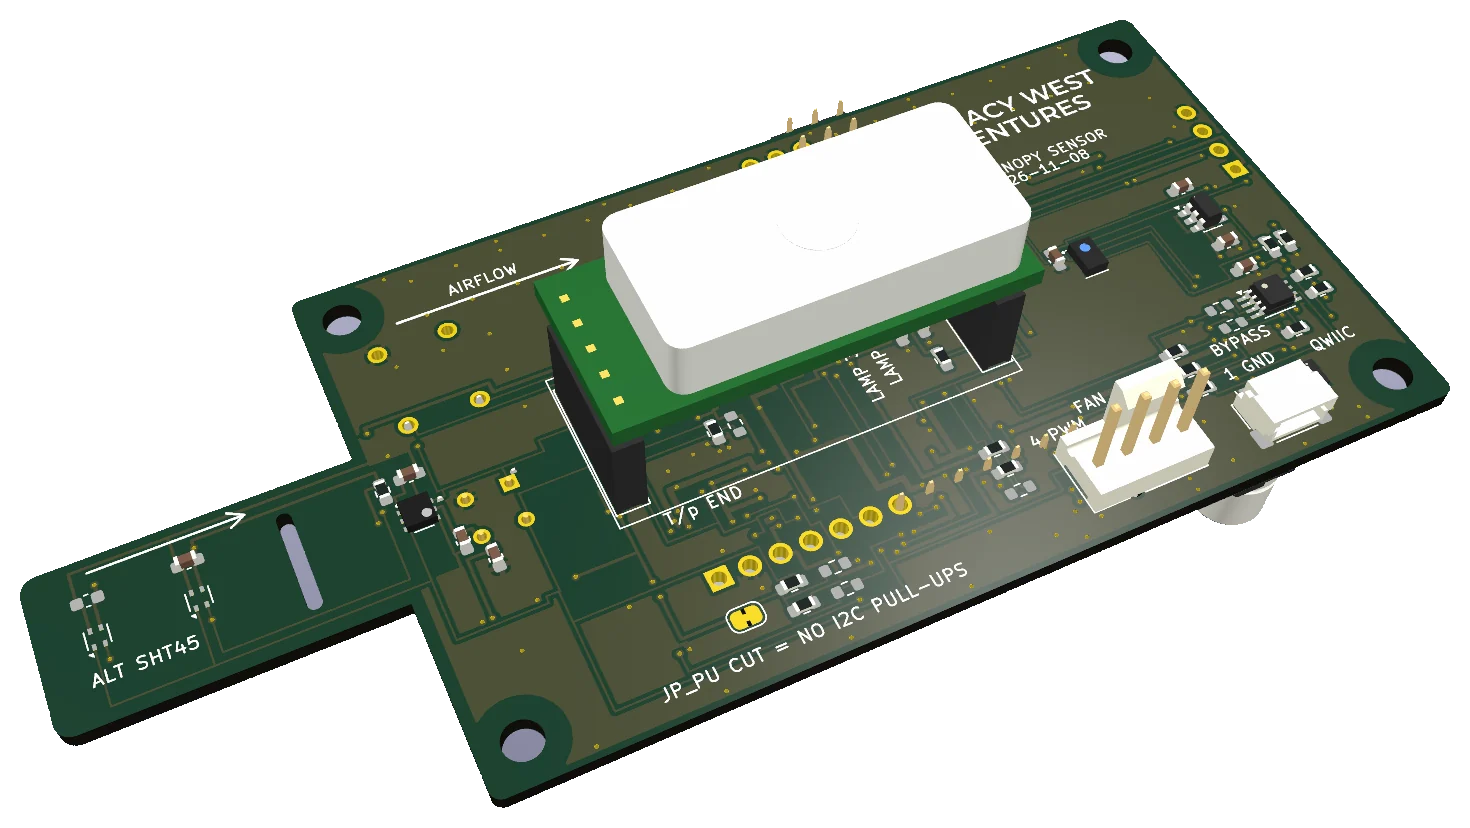
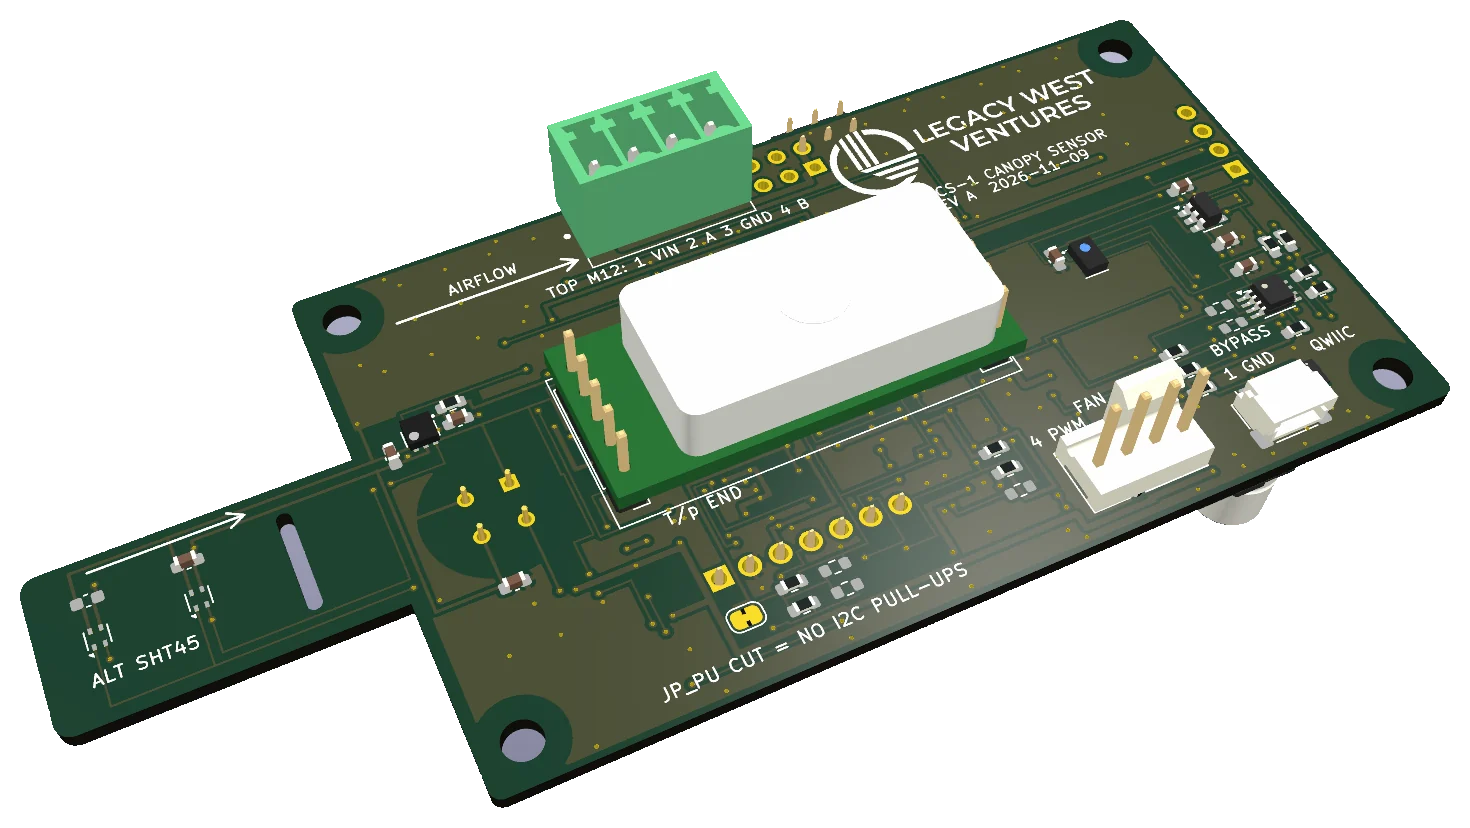
CS-1 overview: rev 4 - hangs from a top M12, wall keyholes, software bus settings, every part fitted by JLC
New renders (case with the connector turret, hanging and wall views, board rev 4 with the XIAO
sockets on their pads); switch, lugs, sockets and hand-fit text replaced; status and pre-order
lists updated.

diff --git a/docs/canopy-sensor/cs-1.html b/docs/canopy-sensor/cs-1.html
@@ -147,10 +147,10 @@ footer .logo { height: 28px }
   <div class="hero">
     <span class="kicker">LWV GCU sensor</span>
     <h1>LWV-CS-1 GCU Canopy Sensor</h1>
-    <p class="lead">The CS-1 hangs just above the plants and measures what they live in: CO<sub>2</sub>, air temperature and humidity, leaf temperature, light and air quality. A small fan draws room air through a shaded duct past the sensors, so the readings describe the room, not a box warmed by the grow lights. It joins the pod's four-wire M12 cable next to the IR blasters, and it is built to be calibrated, checked and updated remotely, without a site visit.</p>
+    <p class="lead">The CS-1 hangs just above the plants and measures what they live in: CO<sub>2</sub>, air temperature and humidity, leaf temperature, light and air quality. A small fan draws room air through a shaded duct past the sensors, so the readings describe the room, not a box warmed by the grow lights. It hangs from the pod's four-wire M12 cable, the same one that runs to the IR blasters, or screws to a wall, and it is built to be set up, calibrated, checked and updated remotely, without a site visit.</p>
     <figure class="hero-fig">
-      <img src="img/cs1-hero.webp" width="1325" height="905" alt="Render of the LWV-CS-1 case: a long rectangular box with a flat lid carrying the LWV-CS-1 name, a round light window with a raised bezel, hanging lugs at both ends, and a grille over the exhaust fan at one end">
-      <figcaption>Rev A, rendered from the production case model (printed in white ASA). Air enters through louvres at the far end and leaves through the fan grille; the round window on the lid is the light sensor's diffuser.</figcaption>
+      <img src="img/cs1-hero.webp" width="1325" height="905" alt="Render of the LWV-CS-1 case: a long rectangular box with a flat lid carrying the LWV-CS-1 name, a round light window with a raised bezel, the M12 connector it hangs from in a short turret on the lid, keyholes in the side wall, and a grille over the exhaust fan at one end">
+      <figcaption>Rev A, rendered from the production case model (printed in white ASA). Air enters through louvres at the far end and leaves through the fan grille; the round window on the lid is the light sensor's diffuser, and the connector beside it is the one it hangs from.</figcaption>
     </figure>
   </div>
 
@@ -168,7 +168,7 @@ footer .logo { height: 28px }
     <header><span class="kicker">Where it sits</span><h2>At the canopy, on the same cable as the IR blasters</h2></header>
     <div class="cols">
       <p class="prose">The IR blasters have to sit where they can see the mini-splits, up high and in the cold air those units blow out. That is the wrong place to measure a room. The CS-1 hangs 20–40 cm above the canopy, away from the mini-split discharge, where the plants actually are.</p>
-      <p class="prose">It plugs into the same daisy-chained M12 cable that already carries 24 V and RS-485 to the blasters: IN on one side, OUT on the other. The GCU reads it once a minute, as it does today's sensor, and passes everything to GCU Cloud. A switch on the board sets its address, so it can replace today's sensor at the same address or run beside it at the next one.</p>
+      <p class="prose">It hangs from a drop of the same daisy-chained M12 cable that already carries 24 V and RS-485 to the blasters, plugged into a connector on its top; a second connector on the side carries the bus on. The GCU reads it once a minute, as it does today's sensor, and passes everything to GCU Cloud. Its address and every other bus setting are set in software, so it can replace today's sensor at the same address or run beside it at the next one.</p>
     </div>
     <figure class="diagram">
       <div class="scroll">
@@ -272,7 +272,7 @@ footer .logo { height: 28px }
         <text class="t-m" x="272" y="148" text-anchor="middle">SGP41</text>
         <rect class="box-acc" x="330" y="118" width="230" height="58" rx="6"/>
         <text class="t-b" x="445" y="144" text-anchor="middle">EE895 CO₂</text>
-        <text class="t-s" x="445" y="164" text-anchor="middle">on a socket, plug-in</text>
+        <text class="t-s" x="445" y="164" text-anchor="middle">soldered on header pins</text>
         <rect class="box" x="640" y="44" width="40" height="132"/>
         <rect x="634" y="34" width="52" height="8" rx="2" fill="var(--surface)" stroke="var(--cyan)" stroke-width="2"/>
         <text class="t-s" x="700" y="30">diffuser</text>
@@ -303,25 +303,25 @@ footer .logo { height: 28px }
       </div>
       <figcaption>Every heat source sits downstream of every air sensor. About 4 m³ of air an hour passes through; the half watt of electronics warms the exhaust by roughly 0.4 °C, after the sensors.</figcaption>
     </figure>
-    <figure class="map"><img src="img/cs1-section.webp" width="1460" height="714" alt="Cut-away render of the CS-1 through its length: louvres and screen at the left, the circuit board as a shelf in the middle, the CO2 module standing on its socket in the upper duct, the black light tube under the diffuser, the cone-shaped leaf thermometer sleeve opening through the floor, the processor below the board, and the fan at the right"><figcaption>Cut-away of the production model along the airflow: louvres, screen, the board as a shelf, the CO<sub>2</sub> module in the upper duct, the black light tube under the diffuser, the leaf thermometer's sleeve through the floor, and the fan.</figcaption></figure>
+    <figure class="map"><img src="img/cs1-section.webp" width="1460" height="714" alt="Cut-away render of the CS-1 through its length: louvres and screen at the left, the circuit board as a shelf in the middle, the CO2 module on its header pins in the upper duct, the black light tube under the diffuser, the cone-shaped leaf thermometer sleeve opening through the floor, the processor below the board, and the fan at the right"><figcaption>Cut-away of the production model along the airflow: louvres, screen, the board as a shelf, the CO<sub>2</sub> module in the upper duct, the black light tube under the diffuser, the leaf thermometer's sleeve through the floor, and the fan.</figcaption></figure>
   </section>
 
   <!-- 4 -->
   <section id="board">
     <header><span class="kicker">The board</span><h2>Built to be changed without a new board</h2></header>
-    <p class="prose">Rev A is the prototype, so everything we expect to learn about in the test pods can be changed with a part swap, a jumper or a reprinted case part instead of a new circuit board.</p>
-    <figure class="map"><img src="img/cs1-board-iso.webp" width="1470" height="828" alt="3D render of the CS-1 circuit board at an angle: the white CO2 module standing on its two black sockets in the middle, the narrow sensor tongue at the front left, the fan and Qwiic connectors at the right edge"><figcaption>Rev A as routed. The CO<sub>2</sub> module stands on its keyed sockets in the middle; the humidity sensor sits on the slotted tongue at the front, upstream of everything else.</figcaption></figure>
+    <p class="prose">Rev A is the prototype, so everything we expect to learn about in the test pods can be changed with a line in JLC's parts list or a reprinted case part instead of a new circuit board. Every part is fitted by JLC; nothing is soldered by hand.</p>
+    <figure class="map"><img src="img/cs1-board-iso.webp" width="1470" height="828" alt="3D render of the CS-1 circuit board at an angle: the white CO2 module standing on its header pins in the middle, the narrow sensor tongue at the front left, the fan and Qwiic connectors at the right edge"><figcaption>Rev A as routed. The CO<sub>2</sub> module stands on its header pins in the middle; the humidity sensor sits on the slotted tongue at the front, upstream of everything else.</figcaption></figure>
     <div class="pair">
-      <figure class="map"><img src="img/cs1-board-top.webp" width="1259" height="599" alt="3D render of the CS-1 circuit board from the top: a long green board with a narrow tongue at one end carrying the humidity sensor, the CO2 module socket, the light sensor, the fan and Qwiic connectors and the LWV logo"><figcaption>Top: the duct side. The humidity sensor sits on the slotted tongue at the left; the CO<sub>2</sub> module plugs into the keyed socket.</figcaption></figure>
-      <figure class="map"><img src="img/cs1-board-bottom.webp" width="1259" height="599" alt="3D render of the CS-1 circuit board from the bottom: the round leaf thermometer, the processor module, the power supply, the labelled test points and the cable socket"><figcaption>Bottom: the leaf thermometer, the plug-in processor, the power supply and the socket the M12 connector card plugs into.</figcaption></figure>
+      <figure class="map"><img src="img/cs1-board-top.webp" width="1259" height="599" alt="3D render of the CS-1 circuit board from the top: a long green board with a narrow tongue at one end carrying the humidity sensor, the CO2 module, the light sensor, the fan and Qwiic connectors and the LWV logo"><figcaption>Top: the duct side. The humidity sensor sits on the slotted tongue at the left; the CO<sub>2</sub> module is soldered on header pins at JLC; the terminal at the back edge takes the top connector's wires.</figcaption></figure>
+      <figure class="map"><img src="img/cs1-board-bottom.webp" width="1259" height="599" alt="3D render of the CS-1 circuit board from the bottom: the round leaf thermometer, the processor module, the power supply, the labelled test points and the cable socket; the processor plugs in with its parts facing away from the board"><figcaption>Bottom: the leaf thermometer, the plug-in processor (parts facing out, as on the GCU V5), the power supply and the socket the M12 connector card plugs into.</figcaption></figure>
     </div>
     <ul class="plain prose">
-      <li><b>The CO<sub>2</sub> module plugs in.</b> It sits on a keyed socket that refuses all three wrong ways round, so a module can be swapped in a minute.</li>
+      <li><b>Built by JLC, nothing soldered by hand.</b> The CO<sub>2</sub> module and the leaf thermometer are soldered at the factory. The one part we plug in is the processor, Seeed's XIAO with factory-fitted pins, the same way round as on the GCU V5.</li>
       <li><b>Sensors on their own switched power.</b> The firmware can power-cycle a stuck sensor and clear a stuck bus remotely; every restart of the processor also restarts the sensors cleanly.</li>
       <li><b>A spare position for the humidity sensor</b> further upstream, a <b>Qwiic connector</b> for a future external probe, spare processor pins, and 24 labelled test points.</li>
       <li><b>Any 5 V PWM fan fits</b> the standard 4-pin header, behind its own current limit, so a jammed fan cannot take the board down. The header is on the top side: the fan unplugs with the lid off.</li>
       <li><b>The duct, screen, diffuser, light tube and leaf-thermometer sleeve all belong to the case.</b> Changing any of them is a reprint.</li>
-      <li><b>Address 10 or 11 from a switch</b> through a window in the floor: drop-in for today's sensor, or beside it at the next address, without a setup step anyone can forget.</li>
+      <li><b>No switches.</b> Address, baud rate, parity and the bus terminator are all set over the bus. A new setting runs on trial after a restart and goes back to the old one by itself if nothing answers it, so a mistake cannot strand a unit. A unit can also be moved to a new address by its serial number while it still shares an address with another sensor.</li>
       <li><b>Speaks today's protocol too.</b> The first registers mirror today's sensor, so a CS-1 reads as CO<sub>2</sub>, temperature and humidity on any GCU, even before its firmware knows about the CS-1.</li>
     </ul>
   </section>
@@ -336,7 +336,7 @@ footer .logo { height: 28px }
       </div>
       <div class="prose" style="display:grid;gap:10px">
         <h3>Health you can see</h3>
-        <p>Every sensor reports its own status, the fan reports its speed, and a run-hours timer says when the screen is due for a rinse. A reading that is not good is sent as "no data", never as the last good value. Firmware updates go over the same RS-485 cable, with the LWV I/O board's update method, which cannot leave the unit without a working image. The GCU side that sends an update down the cable is still to be built; until then units are updated on the bench.</p>
+        <p>Every sensor reports its own status, the fan reports its speed, and a run-hours timer says when the screen is due for a rinse. A reading that is not good is sent as "no data", never as the last good value. Firmware updates go over the same RS-485 cable, with the method the LWV I/O board and IR blaster use; the CS-1 also checks the whole image and refuses one built for another board before it switches. The GCU side that sends an update down the cable is still to be built; until then units are updated on the bench.</p>
       </div>
     </div>
   </section>
@@ -344,17 +344,22 @@ footer .logo { height: 28px }
   <!-- 6 -->
   <section id="case">
     <header><span class="kicker">The case</span><h2>A printed, hanging measuring box</h2></header>
-    <p class="prose">The case is printed in-house in white ASA, which reflects the grow lights and stands up to UV and humidity. Eight parts print flat on our printer without supports. The screen slides out through the floor and the CO<sub>2</sub> module lifts out under the lid, so both can be serviced with the box still hanging. Gaskets are EPDM foam: nothing in the box is silicone, which can poison gas sensors.</p>
+    <p class="prose">The case is printed in-house in white ASA, which reflects the grow lights and stands up to UV and humidity. Seven parts print on our printer without supports. It hangs from its M12 cable: the connector sits in a short turret on the lid, right over the box's centre of gravity, so it hangs level, and the sensor duct underneath stays clear. Or it screws flat to a wall with two keyholes. The screen slides out through the floor with the box still up. Gaskets are EPDM foam: nothing in the box is silicone, which can poison gas sensors.</p>
     <div class="pair">
-      <figure class="map"><img src="img/cs1-exploded.webp" width="723" height="622" alt="Exploded render of the CS-1 case: the lid and the diffuser bezel lifted above the board, the base with the fan at its end, and the screen cartridge slid down out of the floor"><figcaption>Exploded: bezel, lid, board in the base, fan, and the screen cartridge that slides down out of the floor.</figcaption></figure>
+      <figure class="map"><img src="img/cs1-hanging.webp" width="517" height="600" alt="Render of the CS-1 hanging from its M12 drop cable: the cable comes straight down into the connector turret on the lid"><figcaption>Hanging from its M12 drop cable. The connector is over the centre of gravity, so the box hangs level; the height is set with the cable.</figcaption></figure>
+      <figure class="map"><img src="img/cs1-wall.webp" width="1292" height="924" alt="Render of the CS-1 on a wall: its plain side against the wall, the side with the BUS IN and BUS OUT connectors and the Qwiic knock-out facing the room"><figcaption>On a wall: the plain side hangs on two screws in keyholes (a printed drill template comes with it); BUS IN and BUS OUT face the room.</figcaption></figure>
+    </div>
+    <div class="pair">
+      <figure class="map"><img src="img/cs1-exploded.webp" width="671" height="659" alt="Exploded render of the CS-1 case: the lid and the diffuser bezel lifted above the board, the base with the fan at its end, and the screen cartridge slid down out of the floor"><figcaption>Exploded: bezel, lid, board in the base, fan, and the screen cartridge that slides down out of the floor.</figcaption></figure>
       <figure class="map"><img src="img/cs1-base-open.webp" width="1081" height="905" alt="Render of the CS-1 base with the lid removed, showing the board on its standoffs, the CO2 module in the duct, the fan at the end and the M12 connector card on the side wall"><figcaption>Lid off: the board on its four standoffs, the M12 card on the side wall, the fan at the exhaust end.</figcaption></figure>
     </div>
     <table class="tbl">
       <tbody>
-        <tr><td>Size</td><td>143 × 64 × 57 mm, plus two hanging lugs.</td></tr>
-        <tr><td>Material</td><td>White ASA, 8 printed parts; the light tube in black ASA so no light leaks through its wall.</td></tr>
-        <tr><td>Hanging</td><td>Two lugs for a chain bridle or zip ties; hangs level, moved up with the crop.</td></tr>
-        <tr><td>Connections</td><td>M12 IN (female) and OUT (male) on the side wall, the same connector card as the IR blaster.</td></tr>
+        <tr><td>Size</td><td>143 × 64 × 57 mm; the connector turret rises 13.5 mm above the lid.</td></tr>
+        <tr><td>Material</td><td>White ASA, 7 printed parts; the light tube in black ASA so no light leaks through its wall.</td></tr>
+        <tr><td>Hanging</td><td>From its M12 drop cable, plugged into the top connector over the centre of gravity; hangs level, raised with the cable as the crop grows.</td></tr>
+        <tr><td>Wall</td><td>Two keyholes in the plain side for M4 or #8 pan-head screws, 70 mm apart; closed pockets, so no air leaks in.</td></tr>
+        <tr><td>Connections</td><td>M12 on top (female) to hang from; M12 IN (female) and OUT (male) on the side wall, the same connector card as the IR blaster.</td></tr>
         <tr><td>Weather</td><td>Louvres shed drips and block direct light; flat lid with a raised, chamfered diffuser bezel; two weep holes.</td></tr>
       </tbody>
     </table>
@@ -373,7 +378,7 @@ footer .logo { height: 28px }
         <tr><td>Light at the canopy, dark-period leaks</td><td>—</td><td>Yes</td></tr>
         <tr><td>Air quality (VOC, NOx)</td><td>—</td><td>Yes</td></tr>
         <tr><td>Pressure</td><td>—</td><td>Yes</td></tr>
-        <tr><td>Connector</td><td>M12 fitted by us</td><td>M12 IN and OUT built in, daisy-chains</td></tr>
+        <tr><td>Connector</td><td>M12 fitted by us</td><td>M12 on top to hang from, plus IN and OUT to daisy-chain</td></tr>
         <tr><td>Firmware updates</td><td>None</td><td>Over the RS-485 cable (GCU side to come)</td></tr>
         <tr><td>Health</td><td>A value or silence</td><td>Per-sensor status, fan speed, screen-service timer</td></tr>
       </tbody>
@@ -384,7 +389,7 @@ footer .logo { height: 28px }
   <section id="pilot">
     <header><span class="kicker">Test pods</span><h2>Side by side with today's sensor first</h2></header>
     <div class="cols">
-      <p class="prose">The first units go to a few test pods and hang next to the existing sensor on the same cable. The existing sensor keeps address 10 and keeps running the pod. The CS-1 sits at 11, set by its switch, and is <b>monitor only</b>: it is recorded and charted, but the GCU will not hand control to it, even if the other sensor fails. That rule comes off when the data says it should.</p>
+      <p class="prose">The first units go to a few test pods and hang next to the existing sensor on the same cable. The existing sensor keeps address 10 and keeps running the pod. The CS-1 sits at 11, set in software before it joins the bus, and is <b>monitor only</b>: it is recorded and charted, but the GCU will not hand control to it, even if the other sensor fails. That rule comes off when the data says it should.</p>
       <div class="prose" style="display:grid;gap:10px">
         <h3>What the test pods check</h3>
         <ul class="plain">
@@ -404,14 +409,15 @@ footer .logo { height: 28px }
     <table class="tbl">
       <tbody>
         <tr><td>Power</td><td>24 V DC from the M12 bus, about 0.7 W. Fused, reverse-polarity protected, surge clamped.</td></tr>
-        <tr><td>Bus</td><td>RS-485, Modbus RTU, 19 200 baud 8N1 by default; address 10 or 11 by switch, any address by software; 120 Ω termination switch.</td></tr>
+        <tr><td>Bus</td><td>RS-485, Modbus RTU. Address, baud rate (9600–115 200), parity, stop bits, reply delay and the 120 Ω terminator are all set in software; factory setting address 10, 19 200 8N1, terminator off. A new setting that nothing confirms reverts by itself.</td></tr>
         <tr><td>CO<sub>2</sub></td><td>0–5000 ppm, ±(50 ppm + 3 % of reading), dual-wavelength infrared, temperature and pressure compensated.</td></tr>
         <tr><td>Air</td><td>±0.1 °C, ±1.0 %RH typical; dew point and VPD; barometric pressure.</td></tr>
         <tr><td>Leaf temperature</td><td>Infrared, 35° view, ±0.5 °C, emissivity set for leaves.</td></tr>
         <tr><td>Light</td><td>8 colour bands plus clear, near-infrared and flicker; relative light, on/off, dimming, dark-period leak flag.</td></tr>
         <tr><td>Air quality</td><td>VOC and NOx index, 1–500.</td></tr>
         <tr><td>Aspiration</td><td>Noctua NF-A4x10 5V PWM fan, speed monitored; about 1.9 m/s expected past the sensors at the default speed (1.0 m/s required).</td></tr>
-        <tr><td>Processor</td><td>Plug-in Seeed XIAO RP2350; firmware updates over RS-485.</td></tr>
+        <tr><td>Processor</td><td>Seeed XIAO RP2350 with factory-fitted pins, plugged in; firmware updates over RS-485.</td></tr>
+        <tr><td>Mounting</td><td>Hangs from its M12 cable, or screws to a wall.</td></tr>
         <tr><td>Board</td><td>108 × 48 mm including a 26 mm sensor tongue, 2 layers, ENIG finish (lead-free), acrylic conformal coat with the sensors masked.</td></tr>
         <tr><td>Environment</td><td>Grow-room air, non-condensing at the sensors.</td></tr>
       </tbody>
@@ -425,9 +431,9 @@ footer .logo { height: 28px }
     <table class="tbl">
       <thead><tr><th>Part</th><th>Where it is</th><th>What has been checked</th></tr></thead>
       <tbody>
-        <tr><td>Circuit board</td><td>Designed and routed, ready to order</td><td>Electrical and design-rule checks clean (0 errors, 0 unconnected); 419 automatic checks against the design brief, including every pin of the sensors and the processor; 88 machine-placed parts, all in stock at JLC on 2026-11-09.</td></tr>
-        <tr><td>Case</td><td>8 parts modelled, ready to print</td><td>63 of 63 fit checks: board, connectors, gaskets, the CO<sub>2</sub> module's air gap, the leaf thermometer's view, light paths to the humidity and light sensors. No supports needed.</td></tr>
-        <tr><td>CS-1 firmware 0.1.0</td><td>Written and building</td><td>8 test suites pass on the bench computer, including the register map, the bus framing and the counters through simulated power cuts. The update code is byte-identical to the LWV I/O board's.</td></tr>
+        <tr><td>Circuit board</td><td>Designed and routed, ready to order</td><td>Electrical and design-rule checks clean (0 errors, 0 unconnected); 456 automatic checks against the design brief, including every pin of the sensors, the processor's orientation and the leaf thermometer's copper-free island; 91 parts, every one fitted by JLC except the plug-in processor, all in stock at JLC on 2026-11-09.</td></tr>
+        <tr><td>Case</td><td>7 parts modelled, ready to print</td><td>71 of 71 fit checks: board, connectors, gaskets, the CO<sub>2</sub> module's air gap, the leaf thermometer's view, light paths to the humidity and light sensors, the hang balance from the model's weights, the connector turret and the wall keyholes. No supports needed.</td></tr>
+        <tr><td>CS-1 firmware 0.2.0</td><td>Written and building</td><td>10 test suites pass on the bench computer, plus 20 end-to-end tests of the setup and update tools against a simulated unit: software bus settings with automatic fallback, moving a unit by serial number, the update image check. Not yet run on hardware.</td></tr>
         <tr><td>GCU firmware</td><td>CS-1 support on a development branch</td><td>Builds. Sensor type per slot with auto-detection, the monitor-only switch, the remote CO<sub>2</sub> correction and the new readings. Not yet on a lab unit.</td></tr>
         <tr><td>GCU Cloud and the app</td><td>To do</td><td>Sensor-type and monitor-only settings, the CO<sub>2</sub> correction button, charts for the new readings.</td></tr>
       </tbody>
@@ -436,16 +442,16 @@ footer .logo { height: 28px }
       <div class="prose" style="display:grid;gap:10px">
         <h3>Before the boards are ordered</h3>
         <ul class="plain">
+          <li>Order the leaf thermometers into JLC's parts library now (LCSC C7501763; stock fell to 42). JLC keeps them for our assembly order.</li>
+          <li>Quote and lead time for the EE895 module; JLC buys it through Global Sourcing, or we ship modules to JLC.</li>
           <li>Check the CO<sub>2</sub> module's pin positions against E+E's drawing or a real module. It is the one dimension taken from the manual's figures rather than measured.</li>
-          <li>Quote and lead time for the EE895 module.</li>
-          <li>Buy the leaf thermometers now: LCSC's stock fell to 42.</li>
           <li>Final part-orientation check in JLC's placement preview.</li>
         </ul>
       </div>
       <div class="prose" style="display:grid;gap:10px">
         <h3>Then</h3>
         <ul class="plain">
-          <li>5–10 boards and cases, built and brought up in the lab.</li>
+          <li>5–10 boards and cases, built and brought up in the lab; weigh the first unit and trim the top connector's position so it hangs level.</li>
           <li>The GCU firmware on a lab unit with a CS-1 on its bus.</li>
           <li>The first test pods, monitor only, beside today's sensor.</li>
         </ul>
